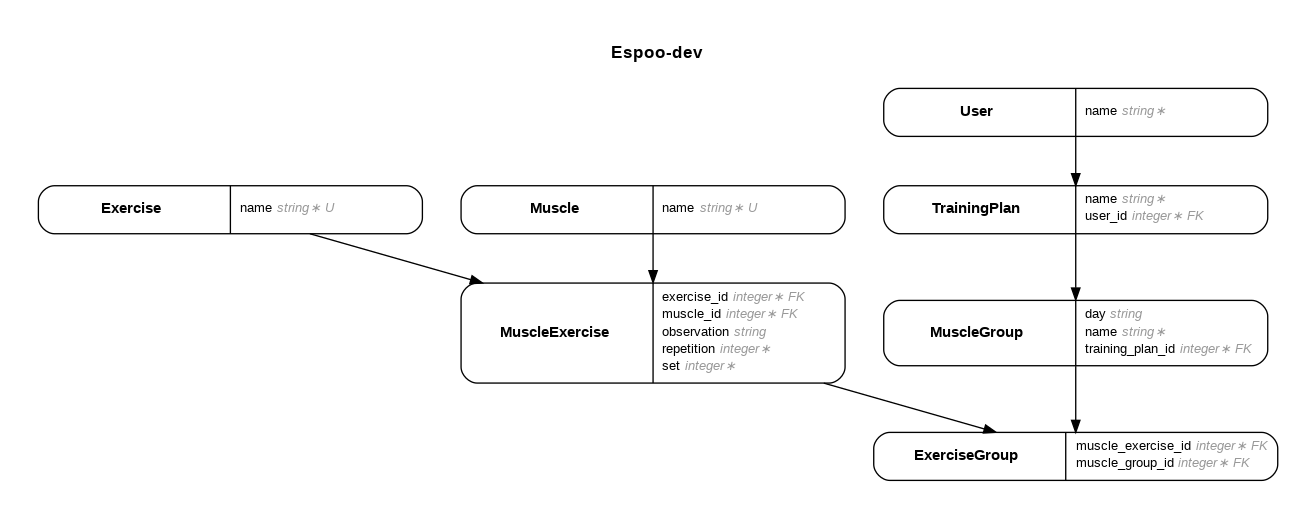
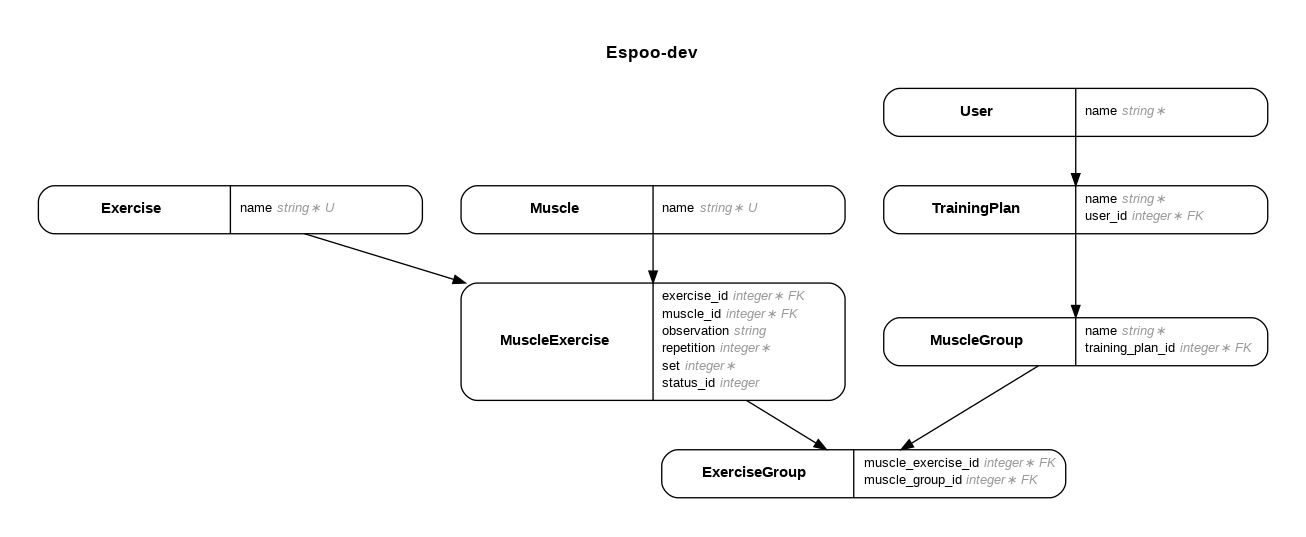
Adjust database

diff --git a/db/schema.rb b/db/schema.rb
@@ -10,7 +10,7 @@
 #
 # It's strongly recommended that you check this file into your version control system.
 
-ActiveRecord::Schema[7.1].define(version: 2024_03_02_180532) do
+ActiveRecord::Schema[7.1].define(version: 2024_03_16_123537) do
   create_table "exercise_groups", force: :cascade do |t|
     t.integer "muscle_exercise_id", null: false
     t.integer "muscle_group_id", null: false
@@ -34,13 +34,13 @@ ActiveRecord::Schema[7.1].define(version: 2024_03_02_180532) do
     t.integer "exercise_id", null: false
     t.datetime "created_at", null: false
     t.datetime "updated_at", null: false
+    t.integer "status_id"
     t.index ["exercise_id"], name: "index_muscle_exercises_on_exercise_id"
     t.index ["muscle_id"], name: "index_muscle_exercises_on_muscle_id"
   end
 
   create_table "muscle_groups", force: :cascade do |t|
     t.string "name"
-    t.string "day"
     t.integer "training_plan_id", null: false
     t.datetime "created_at", null: false
     t.datetime "updated_at", null: false

diff --git a/db/migrate/20240316122947_remove_and_add_column_from_training_plan.rb b/db/migrate/20240316122947_remove_and_add_column_from_training_plan.rb
@@ -1,0 +1,6 @@
+class RemoveAndAddColumnFromTrainingPlan < ActiveRecord::Migration[7.1]
+  def change
+    remove_column :training_plans, :day
+    add_column :muscle_exercises, :status_id, :integer
+  end
+end

diff --git a/db/migrate/20240316123537_remove_day_from_muscle_group.rb b/db/migrate/20240316123537_remove_day_from_muscle_group.rb
@@ -1,0 +1,5 @@
+class RemoveDayFromMuscleGroup < ActiveRecord::Migration[7.1]
+  def change
+    remove_column :muscle_groups, :day
+  end
+end
